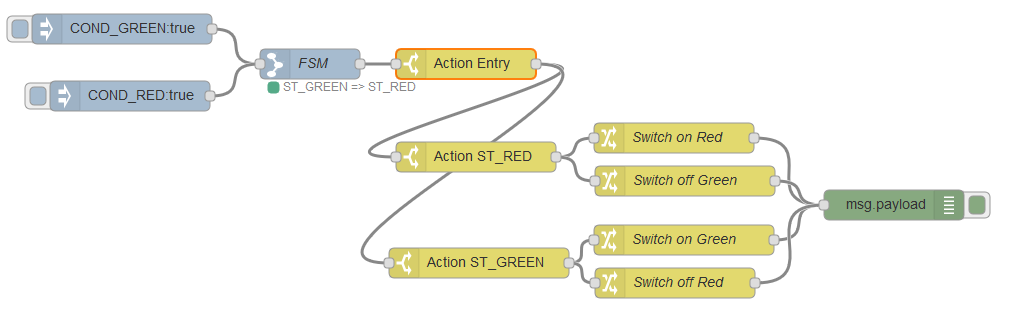
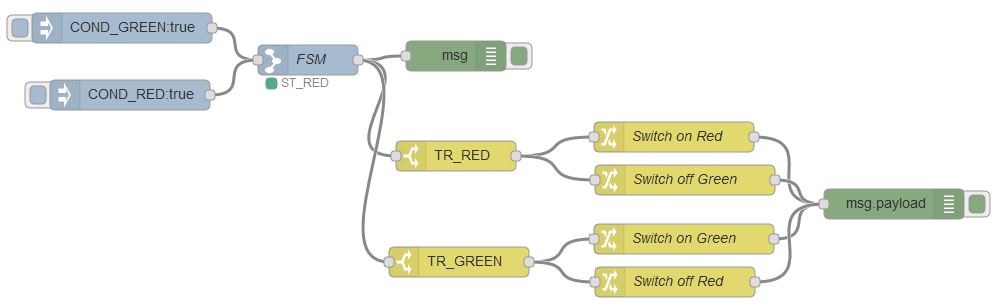
Documentation improved

Changed region(s): [[0.0, 0.0292, 0.994, 0.9935], [0.497, 0.3506, 0.5281, 0.4091]]

diff --git a/README.md b/README.md
@@ -21,16 +21,19 @@ In node-red-contrib-fsm you have to configure the following properties:
     * The topic is used for the output message
   - Initial State
     * The state which is entered at startup
+  - Initial Transition
+    * The name of the initial transition
+  - The output message configuration
+    * Transition - output message is generated for a state transition. The name which has been entered in the transition name column is returned in the message payload.
+    * State Entry - output message is generated for a state entry event. The name which has been entered in the destination name column appended by '_entry' is returned in the message payload.
+    * State Exit - output message is generated for a state exit event. The name which has been entered in the source name column appended by '_exit' is returned in the message payload.
   - Transition(s)
     * 'Name' - Name of the transition
     * 'Source' - the source state
     * 'Destination' - the destination state
     * 'Condition' - the condition topic of the input message
     * 'Cond.State' - the state (true or false) of the input payload
-  - msg.payload
-    * For a transisition the name of the transition will be returned
-    * '_entry' is appended for the target state name
-    * '_exit' is appended for the source state name
+	
     
 ## Example
 
@@ -44,13 +47,16 @@ The flow in node-red:
 
 The switch nodes filter the result message of FSM for the entry event of the states and the change node generates the final action of switching the traffic lights.
 
-The exported flow can be downloaded from here: <https://github.com/karstenj/node-red-contrib-fsm/blob/master/doc/example-fsm-flow.json>.
+The exported flow can be downloaded from here: [FLOW](https://github.com/karstenj/node-red-contrib-fsm/blob/master/doc/example-fsm-flow.json).
 
 The FSM node is configured as shown in the UML state diagram.
 
 ![FSM](https://github.com/karstenj/node-red-contrib-fsm/raw/master/doc/example-fsm-config.png)
 
-### UK Traffic Light Simulator (thanks to [TotallyInformation]https://github.com/TotallyInformation)
+### UK Traffic Light Simulator 
+
+Thanks to [TotallyInformation](https://github.com/TotallyInformation) for providing this example and feedback on the FSM node.
+
 Note that under UK law, the amber light must
 be showing for 3 seconds.
 
@@ -62,17 +68,13 @@ Sequence is:
   - AMBER
   - RED
 
-In this finite state machine, we only need
-one condition, called `CHANGE` since we only
-need to rotate through each state in turn.
+In this finite state machine, we only need one condition, called `CHANGE` since we only need to rotate through each state in turn.
 
-In this flow example, we use the transition
-output to control the sequence and take the
-entry output as the actual light(s) showing.
+In this flow example, we use the transition output to control the sequence and take the entry output as the actual light(s) showing.
 
 ![FSM](https://github.com/karstenj/node-red-contrib-fsm/raw/master/doc/example-fsm-uk-traffic-light-flow.png)
 
-The exported flow can be downloaded from here: <[FLOW]https://github.com/karstenj/node-red-contrib-fsm/blob/master/doc/example-fsm-uk-traffic-light-flow.json>.
+The exported flow can be downloaded from here: [FLOW](https://github.com/karstenj/node-red-contrib-fsm/blob/master/doc/example-fsm-uk-traffic-light-flow.json).
 
 ## Developers
 ```sh
